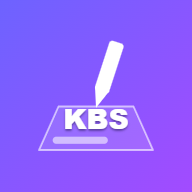
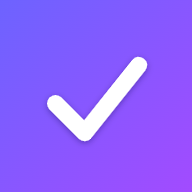
설치 앱 아이콘만 체크표시로 변경 (첫페이지 로고는 KBS 유지)
- icon 192/512/maskable/apple-touch/favicon → 인디고 그라데+흰 체크
- index.html(홈 로고)은 변경 없음, sw v41

Changed region(s): [[0.1875, 0.1875, 0.8125, 0.8125]]

diff --git a/sw.js b/sw.js
@@ -1,5 +1,5 @@
 // KBS 일일업무일지 PWA 서비스워커 — 네트워크 우선 + 오프라인 캐시 폴백
-const CACHE = "ilji-v40";
+const CACHE = "ilji-v41";
 const SHELL = [
   "./", "./index.html", "./daily.html", "./cases.html", "./help.html", "./analysis.html", "./ai.html",
   "./hwpx.js", "./photo.js", "./storage.js", "./photoStorage.js",
